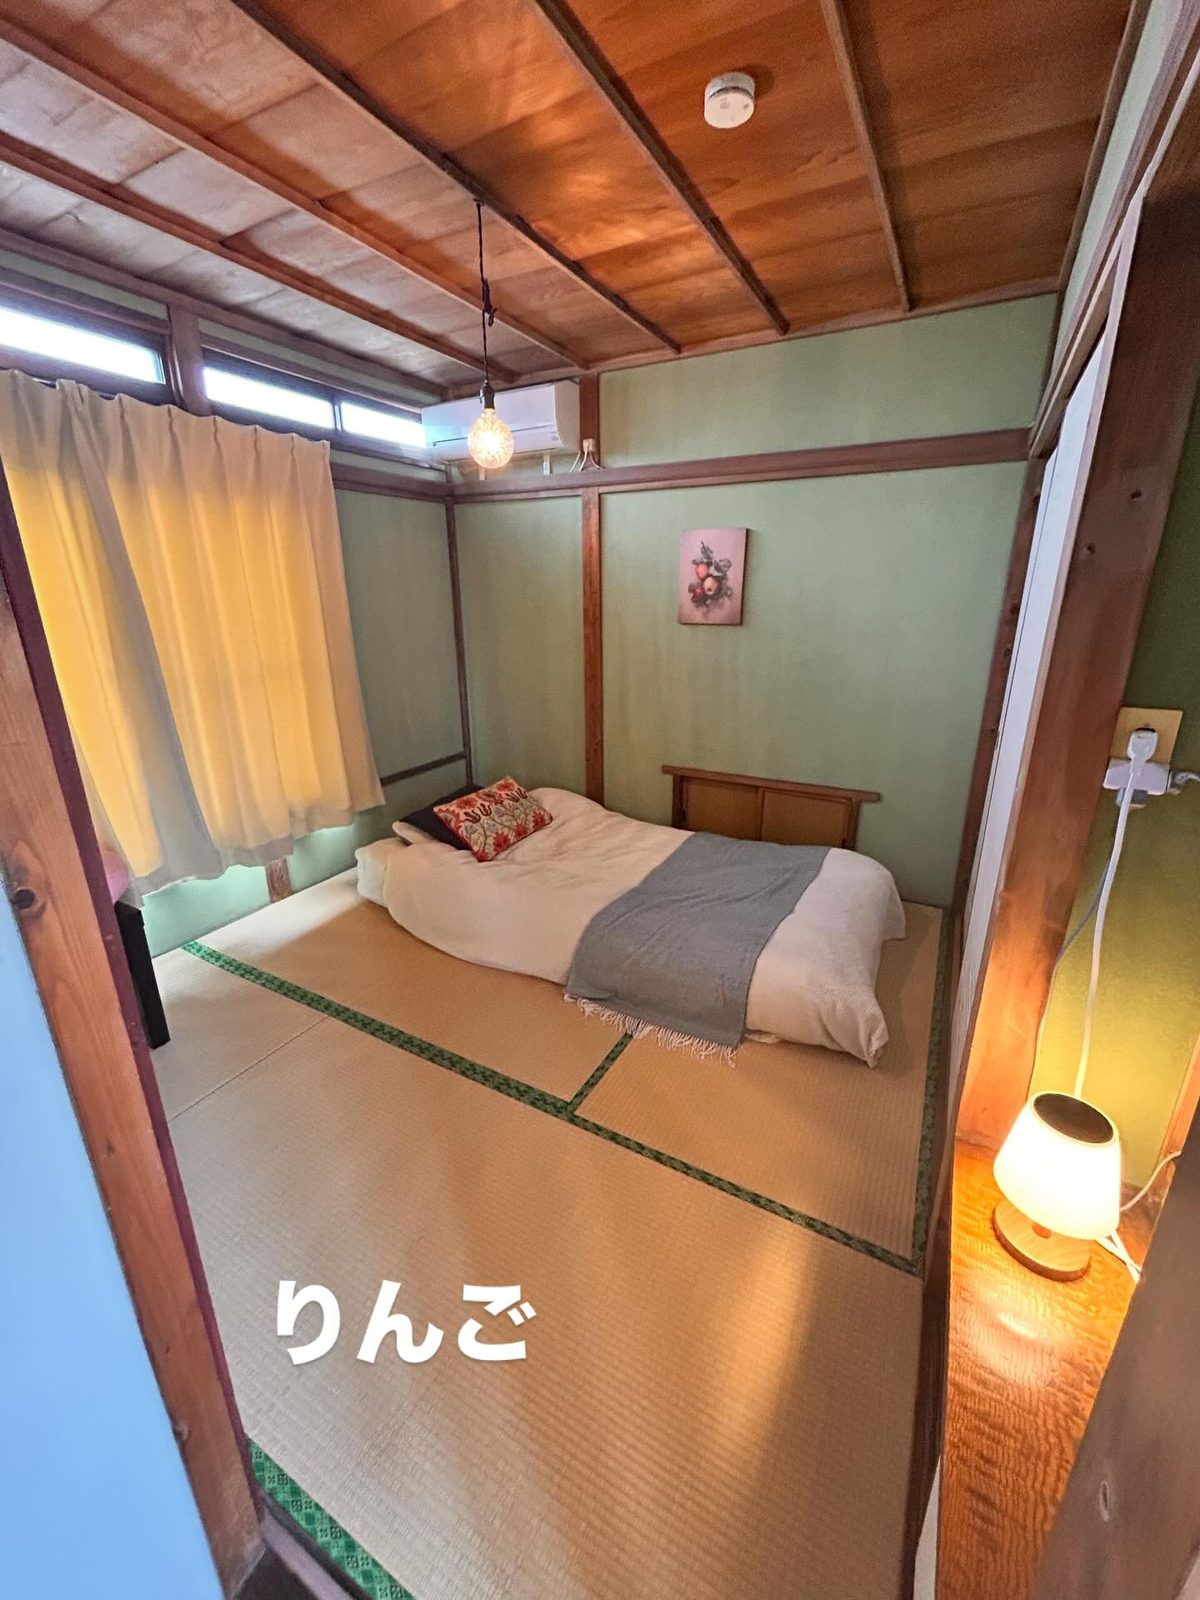
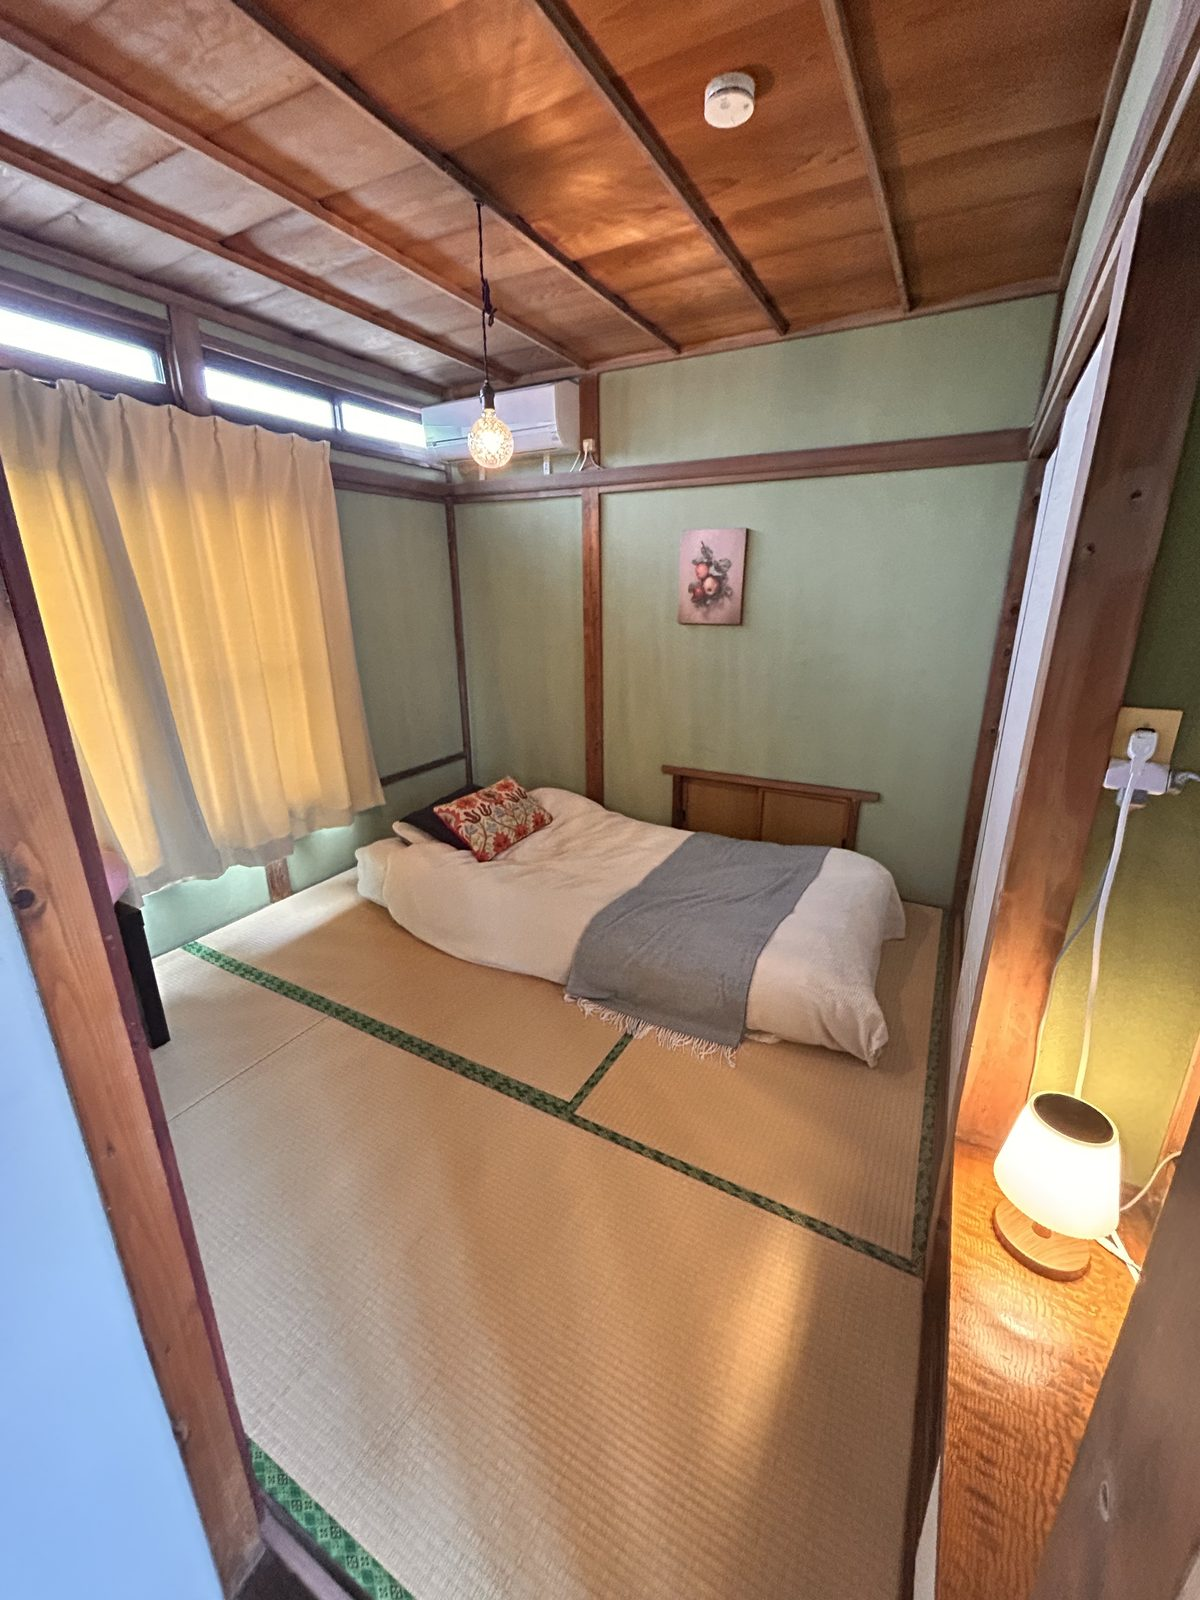
fix: 施設写真を差し替え（キャプション文字入り4枚・お手洗い・共有リビング）
Wix原本の facility-01〜04 はキャプション文字（すいか／トリートメントルーム／
ざくろ／りんご）が焼き込まれていたため、文字なしで撮り直したものへ差し替え。
あわせて facility-05（お手洗い）はタオルの写り込みを解消したカット、
facility-08（共有リビング）は別アングルへ更新した。

新原本は zakuronoki-assets/07-provided/ に格納し、build-assets.py の FACILITY で
出力枠に対応づけている。site/assets/ を直接置き換えると次回ビルドで元へ戻るため。
原本はiPhone撮影のHEIC由来につき、JPEG変換のうえ位置情報を含むEXIFを除去した。

HTML側の参照ファイル名は変更なし。

diff --git a/tools/build-assets.py b/tools/build-assets.py
@@ -14,8 +14,21 @@ ROOT = Path(__file__).resolve().parent.parent
 SRC = ROOT / 'zakuronoki-assets'
 OUT = ROOT / 'site' / 'assets'
 
+# 院から提供された撮り直し分。Wix原本にキャプション文字が焼き込まれていた4枚
+# （すいか・トリートメントルーム・ざくろ・りんご）と、お手洗い・共有リビングを
+# こちらの原本に差し替える。
+FACILITY = {
+    1: SRC / '07-provided' / 'facility-01-suika.jpg',
+    2: SRC / '07-provided' / 'facility-02-treatment.jpg',
+    3: SRC / '07-provided' / 'facility-03-zakuro.jpg',
+    4: SRC / '07-provided' / 'facility-04-ringo.jpg',
+    5: SRC / '07-provided' / 'facility-05-toilet.jpg',
+    8: SRC / '07-provided' / 'facility-08-living.jpg',
+}
+
 JPG = [  # (出力名, 元ファイル, 長辺px)
-    *[(f'facility-{i:02d}.jpg', SRC / '02-facility' / f'facility-{i:02d}.jpg', 1600)
+    *[(f'facility-{i:02d}.jpg',
+       FACILITY.get(i, SRC / '02-facility' / f'facility-{i:02d}.jpg'), 1600)
       for i in range(1, 11)],
     *[(f'food-{i:02d}.jpg', SRC / '03-food' / f'food-{i:02d}.jpg', 1600)
       for i in range(1, 10)],

diff --git a/zakuronoki-assets/MANIFEST.md b/zakuronoki-assets/MANIFEST.md
@@ -10,8 +10,19 @@
 | `04-staff/` | 院長 + スタッフ 16名 | スタッフ紹介グリッド |
 | `05-yuffai/` | ユーファイ教室 | ユーファイ教室ページ |
 | `06-line/` | 公式LINE QR | フッター（**URLリンクも併設が必須**） |
+| `07-provided/` | 院から提供された撮り直し 6枚 | `02-facility/` の同番号を差し替え（下記） |
 | `90-reference/` | 料金表・空き状況 | 素材ではなく**読み取り元**。テキストに起こす |
 | `99-misc/` | 用途不明 3枚 | Wix標準素材の可能性。要確認 |
+
+## `07-provided/` について
+
+Wix原本の `facility-01〜04` にはキャプション文字（すいか／トリートメントルーム／
+ざくろ／りんご）が焼き込まれていたため、文字なしで撮り直したものに差し替えた。
+`facility-05`（お手洗い）はタオルの写り込み、`facility-08`（共有リビング）は
+別アングルへの差し替え。対応は `tools/build-assets.py` の `FACILITY` を参照。
+
+原本はiPhone撮影のHEICのため、JPEGへ変換のうえ**位置情報を含むEXIFを除去**して
+格納している（向きはピクセルに反映済み）。
 
 ## 注意
 
